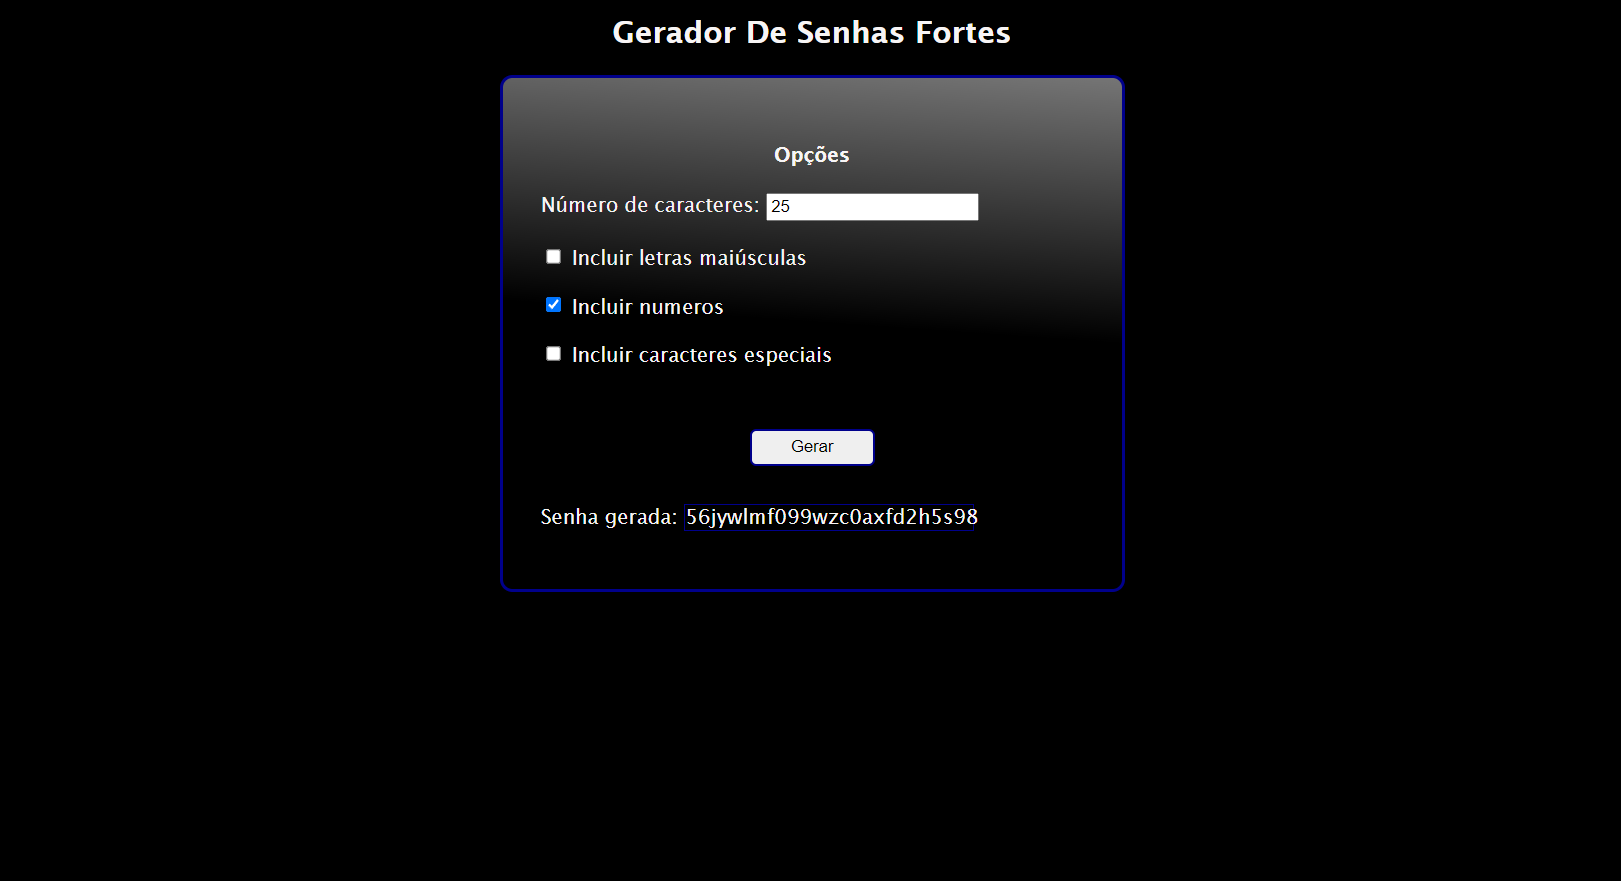
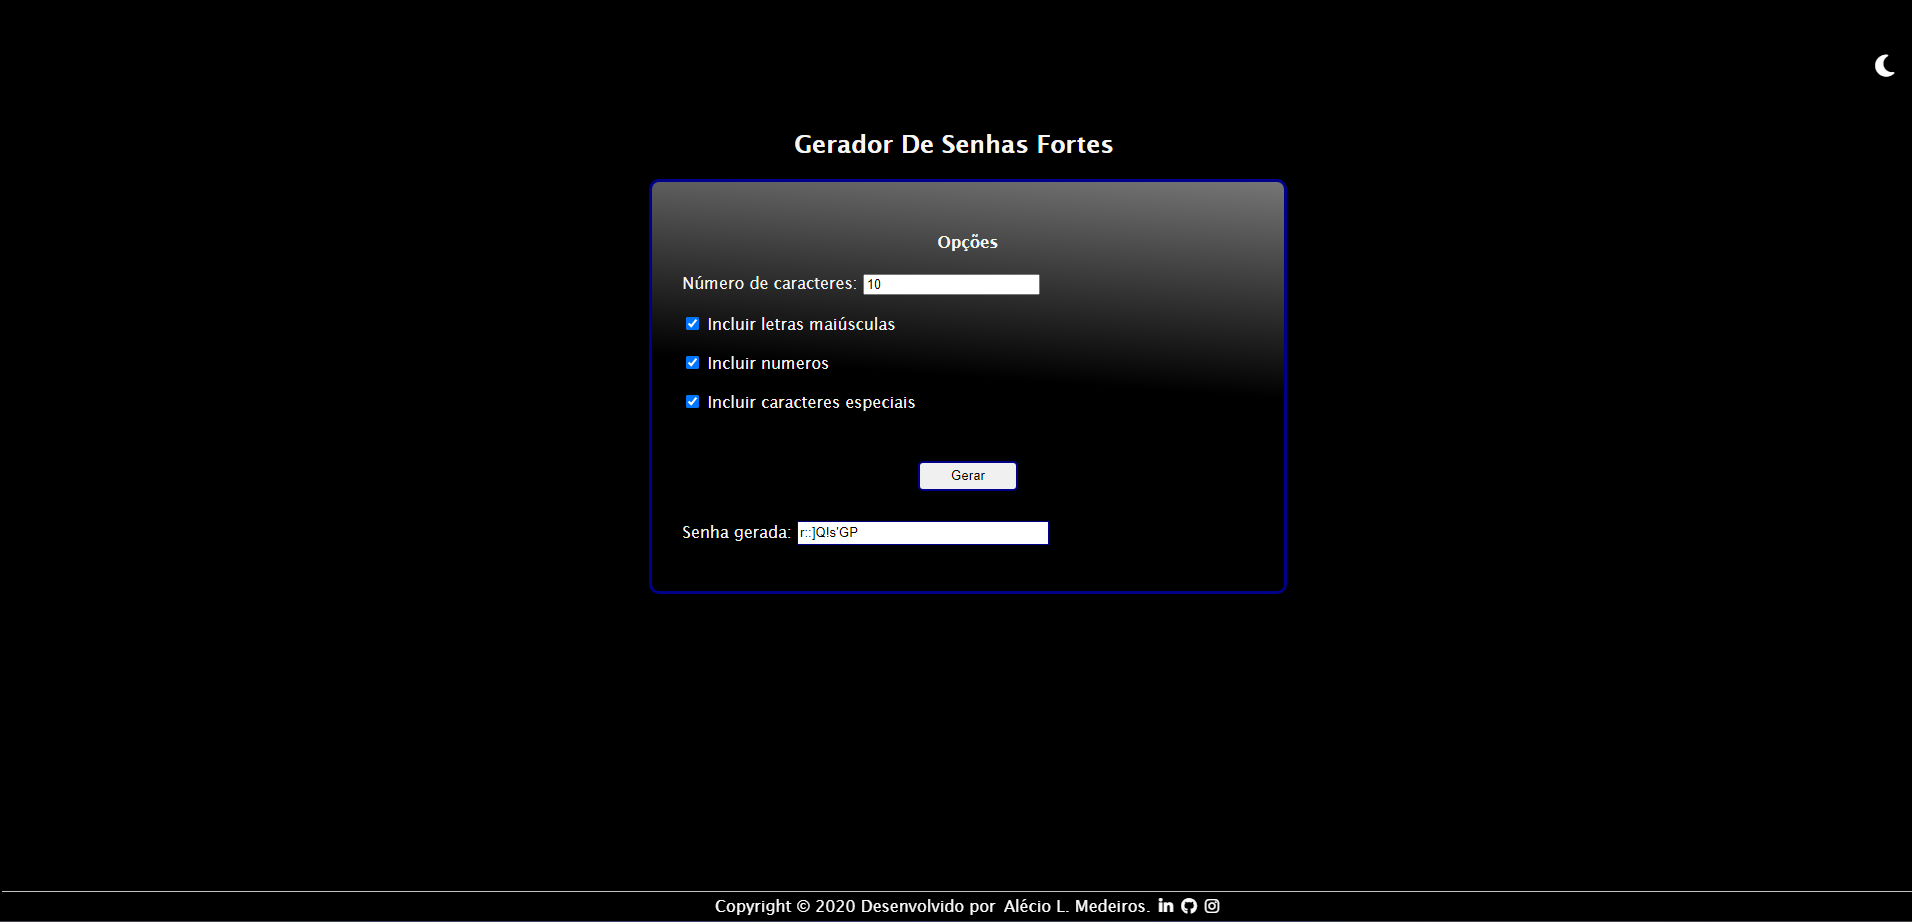
Refactor index and random.js and css

Changed region(s): [[0.3085, 0.0306, 0.7094, 0.6742], [0.3701, 0.9501, 0.6477, 1.0], [0.9562, 0.0613, 0.987, 0.0919]]

diff --git a/index.html b/index.html
@@ -4,15 +4,12 @@
         <title>Gerador Senha Fortes</title>
         <meta charset="UTF-8">
         <link href="style.css" rel="stylesheet"/>
-        <link href="https://cdnjs.cloudflare.com/ajax/libs/font-awesome/6.4.0/css/all.min.css" rel="stylesheet">
-      
+        <link href="https://cdnjs.cloudflare.com/ajax/libs/font-awesome/6.4.0/css/all.min.css" rel="stylesheet">      
         <link rel="icon" href="Star-icon.png">
     </head>
     <body>
         <h2>Gerador De Senhas Fortes</h2>
-        <i id="dark-mode-toggle" class="fas fa-sun dark-mode-toggle" style="display: block;"></i> 
-  
-
+        <i id="dark-mode-toggle" class="fas fa-sun dark-mode-toggle" ></i>
         <div id="mainMenu">
             <h4>Opções</h4>
             <label for="charNumber">Número de caracteres: </label>
@@ -24,18 +21,16 @@
             <br>
             <input id="includeSpecialChars" type="checkbox"> Incluir caracteres especiais</br>
             <br>
-            <div id="buttonContainer"><button id="generatePassword">Gerar</button></div>
-    
-                <label1 for="generatedPassword">Senha gerada:</label1> 
-                <div id="generatedPassword"></div>
+            <div id="buttonContainer"><button id="generatePassword">Gerar</button></div>    
+            <label for="generatedPassword">Senha gerada:</label>
+            <input id="generatedPassword" readonly>       
             </p>
         </div>
         <script src="random.js"></script>
         <script src="darkmode.js"></script>
            <footer>
             Copyright &copy; 2020 Desenvolvido por
-            <a href="https://www.facebook.com/Madenxx/" target="_blank">Alécio L. Medeiros</a>.
-        
+            <a href="https://www.facebook.com/Madenxx/" target="_blank">Alécio L. Medeiros</a>.        
             <a href="https://www.linkedin.com/in/madenx" target="_blank"><i class="fab fa-linkedin-in"></i></a>
             <a href="https://github.com/M4deN" target="_blank"><i class="fab fa-github"></i></a>
             <a href="https://www.instagram.com/madenx/" target="_blank"><i class="fab fa-instagram"></i></a>        

diff --git a/style.css b/style.css
@@ -12,11 +12,6 @@ body{
     margin-left: 34%;
 }
 
-.dark-mode.mainMenu {
-    background: linear-gradient(184deg, rgba(255, 255, 255, 0.46) 0%, rgba(140, 141, 141, 0) 48%);
-  }
-
-
 h4{
     text-align: center;
     font-size:medium;
@@ -24,8 +19,8 @@ h4{
 #generatedPassword{
     border:1px solid darkblue;
     height: 20px;
-    width:45%;
-    display:inline-block;    
+    width:43%;
+    display:inline-block;  
 }
 
 p label{
@@ -40,8 +35,7 @@ h2{
     text-align: center;
 }
 
-button{
-    
+button{    
     border: 2px solid darkblue;
     border-radius: 5px; 
     width:100px;
@@ -59,6 +53,7 @@ footer{
     padding: 5px;
     text-align: center;
   }
+  
   footer p, a{
     margin-top: auto;
     margin-left: 0.2em;
@@ -77,27 +72,28 @@ footer{
     z-index: 1000;
     color: #ffffff;
 }
-  
-  body.dark-mode .fa-sun.dark-mode-toggle {
+
+.fa-sun.dark-mode-toggle {
     font-size: 25px;
     color: rgb(0, 0, 0);
-  }
+}
 
-  .fa-moon.dark-mode-toggle {
+.fa-moon.dark-mode-toggle {
     font-size: 25px;
     color: #ffffff;
-  }
+}
 
-  .dark-mode {
+.dark-mode {
     background-color: #ffffff;
     color: #000000;
-  }
+}
+
  
   body.dark-mode footer {
-    color: #000000; /* Cor do texto no modo escuro */
-    border-top-color: #000000; /* Cor da borda no modo escuro */
+    color: #000000;
+    border-top-color: #000000; 
   }
   
   body.dark-mode footer p, body.dark-mode .footer a {
-    color: #000000; /* Cor do texto no modo escuro */
+    color: #000000; 
   }

diff --git a/random.js b/random.js
@@ -1,9 +1,10 @@
 const button1 = document.getElementById("generatePassword");
-const displayer = document.getElementById("generatedPassword");
+const input = document.getElementById("generatedPassword");
+
 button1.addEventListener("click", function (){
     let passLength = (document.getElementById("charNumber").value);
     let passArray = [];
-    for(let i = 0;i<passLength;i++){
+    for(let i = 0; i < passLength; i++){
         while(true)
         {
             var randomchar = Math.floor(Math.random()*(127-33))+33;
@@ -28,12 +29,13 @@ button1.addEventListener("click", function (){
                 break;
             }
         }
-        if (randomchar===60)
+        if (randomchar === 60)
         {
             passArray.push("&lt;");
         } else {
             passArray.push(String.fromCharCode(randomchar));
         }
     }
-    displayer.innerHTML = passArray.join("");
-})
+    // Alteração aqui: em vez de 'displayer', use 'input'
+    input.value = passArray.join("");
+});
